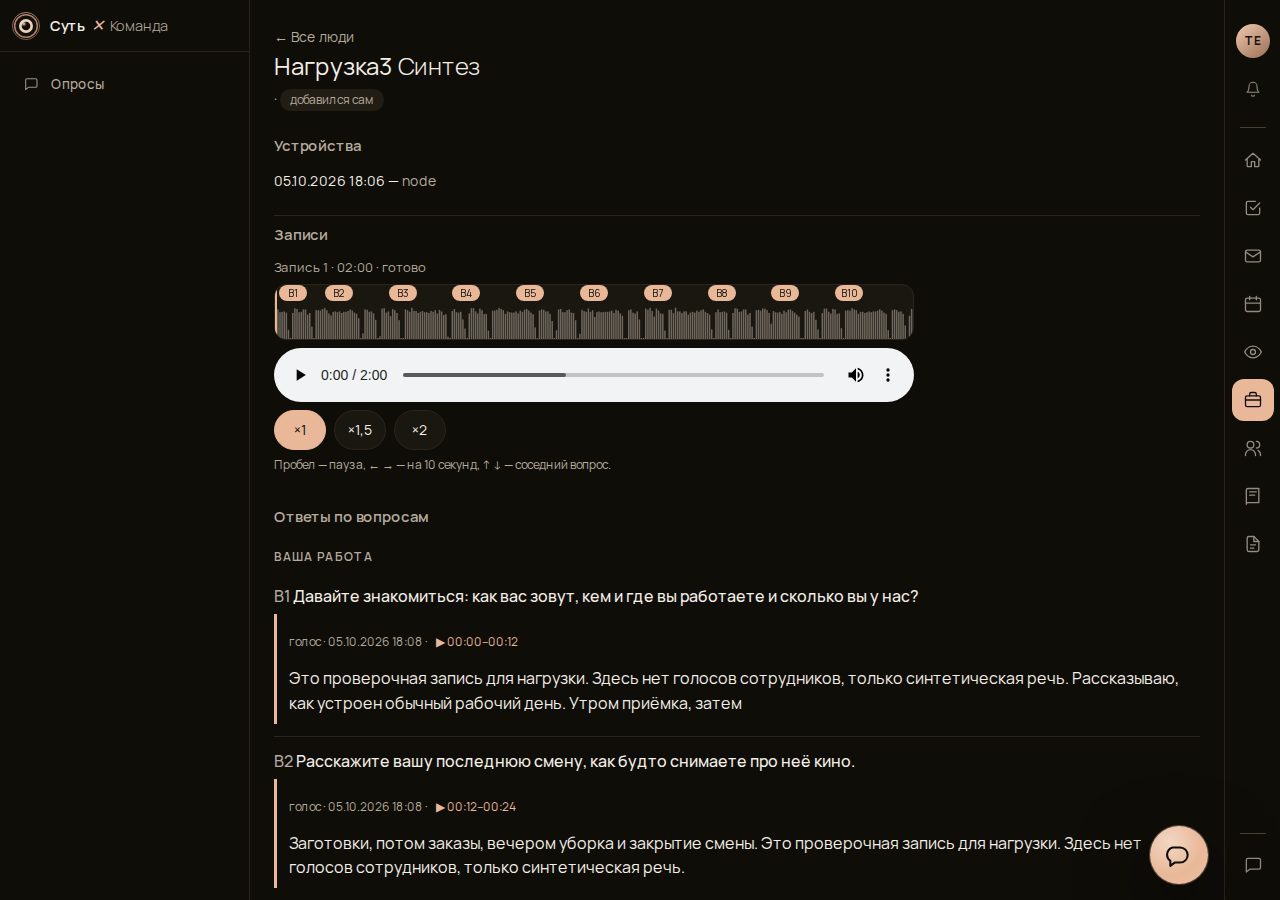
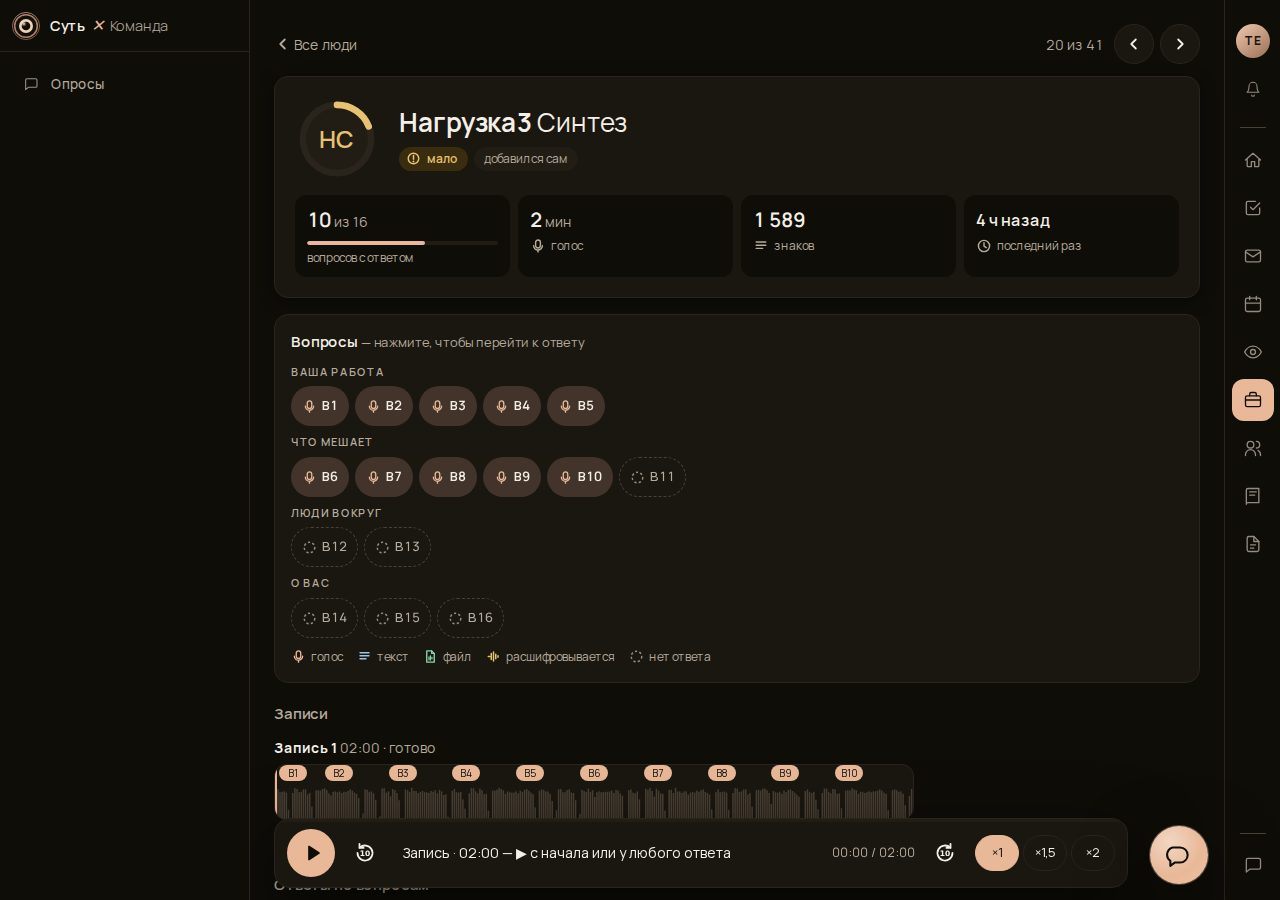
Начистоту: обзор — табло и кабинет (№17–29) «стало» со стенда, «как было» под каждым снимком (05.10, SM-NACH-141)

diff --git a/nachistotu/itog/index.html b/nachistotu/itog/index.html
@@ -35,6 +35,10 @@
   th { color:var(--mut); font-weight:600; font-size:13px; text-transform:uppercase; letter-spacing:.04em; }
   .steps li { margin:8px 0; }
   .mut { color:var(--mut); }
+  .ba-old { margin-top:6px; }
+  .ba-old summary { cursor:pointer; font-size:13px; color:var(--mut); padding:4px 0; }
+  .ba-old img { opacity:.92; margin-top:6px; }
+  .new { display:inline-block; font-size:12px; font-weight:700; padding:1px 8px; border-radius:999px; background:#b34700; color:#fff; vertical-align:1px; margin-right:4px; }
 </style>
 </head>
 <body>
@@ -82,31 +86,38 @@
 
 <h2>2. Табло «Кто ответил» — для Риммы и управляющих</h2>
 <p>По своей ссылке, без входа. Только точка, фамилия, должность, статус, минуты, знаки и время — ни слова из ответов (проверено поиском). Анонимные не видны и в числа не входят.</p>
+<div class="box acc"><b>05.10, по вашему «докрути дизайн»:</b> сверху кольцо «сколько ответили» и срок сбора; полоса состояний и фильтры «кого позвать»; точки — карточками с кольцом; у каждого человека кольцо «сколько рассказал»; «Как читать табло» словами; кольца и числа доезжают при обновлении раз в минуту. Проверка доступности (Lighthouse) — 100 из 100.</div>
 <div class="grid">
-  <figure id="s17"><img loading="lazy" src="img/board-phone.jpg" alt="№17"><figcaption><b>№17</b> · Табло на телефоне — карточки</figcaption></figure>
-  <figure id="s18"><img loading="lazy" src="img/board-phone-dark.jpg" alt="№18"><figcaption><b>№18</b> · Табло, тёмная тема</figcaption></figure>
+  <figure id="s17"><img loading="lazy" src="img/board-phone.jpg" alt="№17"><figcaption><span class="new">стало</span><b>№17</b> · Табло на телефоне</figcaption><details class="ba-old"><summary>как было до 05.10</summary><img loading="lazy" src="img/before/board-phone.jpg" alt="№17, было"></details></figure>
+  <figure id="s18"><img loading="lazy" src="img/board-phone-dark.jpg" alt="№18"><figcaption><span class="new">стало</span><b>№18</b> · Табло, тёмная тема</figcaption><details class="ba-old"><summary>как было до 05.10</summary><img loading="lazy" src="img/before/board-phone-dark.jpg" alt="№18, было"></details></figure>
 </div>
 <div class="wide" style="margin-top:18px">
-  <figure id="s19"><img loading="lazy" src="img/board-desktop.jpg" alt="№19"><figcaption><b>№19</b> · Табло на компьютере: кольца по точкам, ответы по дням, фильтр, поиск</figcaption></figure>
+  <figure id="s19"><img loading="lazy" src="img/board-desktop.jpg" alt="№19"><figcaption><span class="new">стало</span><b>№19</b> · Табло на компьютере</figcaption><details class="ba-old"><summary>как было до 05.10</summary><img loading="lazy" src="img/before/board-desktop.jpg" alt="№19, было"></details></figure>
 </div>
 
 <h2>3. Ваш кабинет — ответы видите только вы</h2>
 <p>Модуль «Команда» в «Сути». Ответы открываются только читателям опроса (для «Суши Мамы» — вам). Админы пространства и админ платформы получают «страница не найдена». Каждое открытие, поиск и выгрузка пишутся в журнал.</p>
+<div class="box acc"><b>05.10, по вашему «докрути дизайн»:</b>
+<ul>
+<li><b>Список</b> — сводка как на табло, «кто прислал новое с прошлого входа», люди с кольцом и статусом словом, порядок «сначала новое / сначала кого позвать».</li>
+<li><b>Карточка человека</b> — шапка с числами; карта вопросов (на что ответил и как); плеер внизу экрана говорит, какой вопрос сейчас звучит; звучащий ответ подсвечен; прослушанная часть волны — цветом; стрелки «предыдущий / следующий» по тому же списку.</li>
+<li><b>Анонимные</b> — фильтры «непрочитанные / важные / тема», по дням; <b>поиск</b> — по людям, прямо к ответу; <b>журнал</b> — лентой, повторы одной строкой; <b>выгрузка</b> — карточками; <b>главная</b> — кольцо «ответили» и «новое».</li>
+</ul></div>
 <div class="wide">
-  <figure id="s20"><img loading="lazy" src="img/cab-list.jpg" alt="№20"><figcaption><b>№20</b> · Кабинет: сводка волны и список людей с фильтрами</figcaption></figure>
-  <figure id="s21"><img loading="lazy" src="img/cab-card.jpg" alt="№21"><figcaption><b>№21</b> · Карточка человека: волна записи с отметками вопросов, плеер, расшифровка по вопросам</figcaption></figure>
+  <figure id="s20"><img loading="lazy" src="img/cab-list.jpg" alt="№20"><figcaption><span class="new">стало</span><b>№20</b> · Кабинет: сводка и список людей</figcaption><details class="ba-old"><summary>как было до 05.10</summary><img loading="lazy" src="img/before/cab-list.jpg" alt="№20, было"></details></figure>
+  <figure id="s21"><img loading="lazy" src="img/cab-card.jpg" alt="№21"><figcaption><span class="new">стало</span><b>№21</b> · Карточка человека: шапка, карта вопросов, волна, ответы, плеер внизу</figcaption><details class="ba-old"><summary>как было до 05.10</summary><img loading="lazy" src="img/before/cab-card.jpg" alt="№21, было"></details></figure>
 </div>
 <div class="grid" style="margin-top:18px">
-  <figure id="s22"><img loading="lazy" src="img/cab-card-phone.jpg" alt="№22"><figcaption><b>№22</b> · Карточка на телефоне — плеер закреплён внизу</figcaption></figure>
-  <figure id="s23"><img loading="lazy" src="img/cab-list-phone.jpg" alt="№23"><figcaption><b>№23</b> · Список на телефоне</figcaption></figure>
-  <figure id="s24"><img loading="lazy" src="img/cab-card-dark.jpg" alt="№24"><figcaption><b>№24</b> · Карточка, тёмная тема</figcaption></figure>
-  <figure id="s25"><img loading="lazy" src="img/cab-home.jpg" alt="№25"><figcaption><b>№25</b> · Главная модуля «Команда»</figcaption></figure>
+  <figure id="s22"><img loading="lazy" src="img/cab-card-phone.jpg" alt="№22"><figcaption><span class="new">стало</span><b>№22</b> · Карточка на телефоне — играет вопрос, плеер внизу</figcaption><details class="ba-old"><summary>как было до 05.10</summary><img loading="lazy" src="img/before/cab-card-phone.jpg" alt="№22, было"></details></figure>
+  <figure id="s23"><img loading="lazy" src="img/cab-list-phone.jpg" alt="№23"><figcaption><span class="new">стало</span><b>№23</b> · Список на телефоне</figcaption><details class="ba-old"><summary>как было до 05.10</summary><img loading="lazy" src="img/before/cab-list-phone.jpg" alt="№23, было"></details></figure>
+  <figure id="s24"><img loading="lazy" src="img/cab-card-dark.jpg" alt="№24"><figcaption><span class="new">стало</span><b>№24</b> · Карточка, тёмная тема</figcaption><details class="ba-old"><summary>как было до 05.10</summary><img loading="lazy" src="img/before/cab-card-dark.jpg" alt="№24, было"></details></figure>
+  <figure id="s25"><img loading="lazy" src="img/cab-home.jpg" alt="№25"><figcaption><span class="new">стало</span><b>№25</b> · Главная модуля «Команда»</figcaption><details class="ba-old"><summary>как было до 05.10</summary><img loading="lazy" src="img/before/cab-home.jpg" alt="№25, было"></details></figure>
 </div>
 <div class="wide" style="margin-top:18px">
-  <figure id="s26"><img loading="lazy" src="img/cab-anon.jpg" alt="№26"><figcaption><b>№26</b> · Анонимный ящик: текст, точка, тема, дата; «прочитано», «важно»</figcaption></figure>
-  <figure id="s27"><img loading="lazy" src="img/cab-search.jpg" alt="№27"><figcaption><b>№27</b> · Поиск по всем ответам и анонимным</figcaption></figure>
-  <figure id="s28"><img loading="lazy" src="img/cab-access.jpg" alt="№28"><figcaption><b>№28</b> · Журнал доступа: кто, когда, что открывал</figcaption></figure>
-  <figure id="s29"><img loading="lazy" src="img/cab-export.jpg" alt="№29"><figcaption><b>№29</b> · Выгрузка для анализа: текст и звук</figcaption></figure>
+  <figure id="s26"><img loading="lazy" src="img/cab-anon.jpg" alt="№26"><figcaption><span class="new">стало</span><b>№26</b> · Анонимные: фильтры, по дням, «прочитано», «важно»</figcaption><details class="ba-old"><summary>как было до 05.10</summary><img loading="lazy" src="img/before/cab-anon.jpg" alt="№26, было"></details></figure>
+  <figure id="s27"><img loading="lazy" src="img/cab-search.jpg" alt="№27"><figcaption><span class="new">стало</span><b>№27</b> · Поиск: по людям, прямо к ответу</figcaption><details class="ba-old"><summary>как было до 05.10</summary><img loading="lazy" src="img/before/cab-search.jpg" alt="№27, было"></details></figure>
+  <figure id="s28"><img loading="lazy" src="img/cab-access.jpg" alt="№28"><figcaption><span class="new">стало</span><b>№28</b> · Журнал доступа лентой</figcaption><details class="ba-old"><summary>как было до 05.10</summary><img loading="lazy" src="img/before/cab-access.jpg" alt="№28, было"></details></figure>
+  <figure id="s29"><img loading="lazy" src="img/cab-export.jpg" alt="№29"><figcaption><span class="new">стало</span><b>№29</b> · Выгрузка: текст и звук</figcaption><details class="ba-old"><summary>как было до 05.10</summary><img loading="lazy" src="img/before/cab-export.jpg" alt="№29, было"></details></figure>
 </div>
 
 <h2>4. Что проверено и чем</h2>
